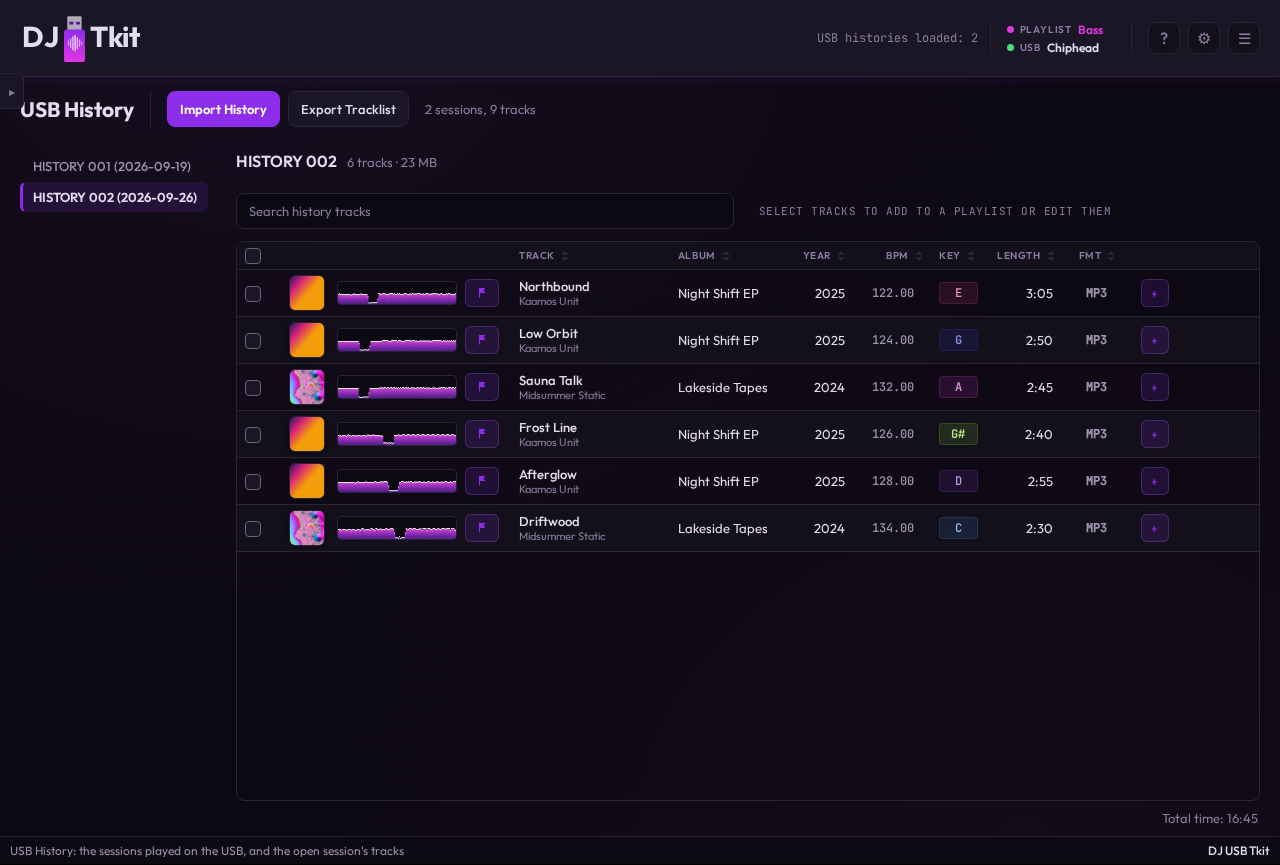
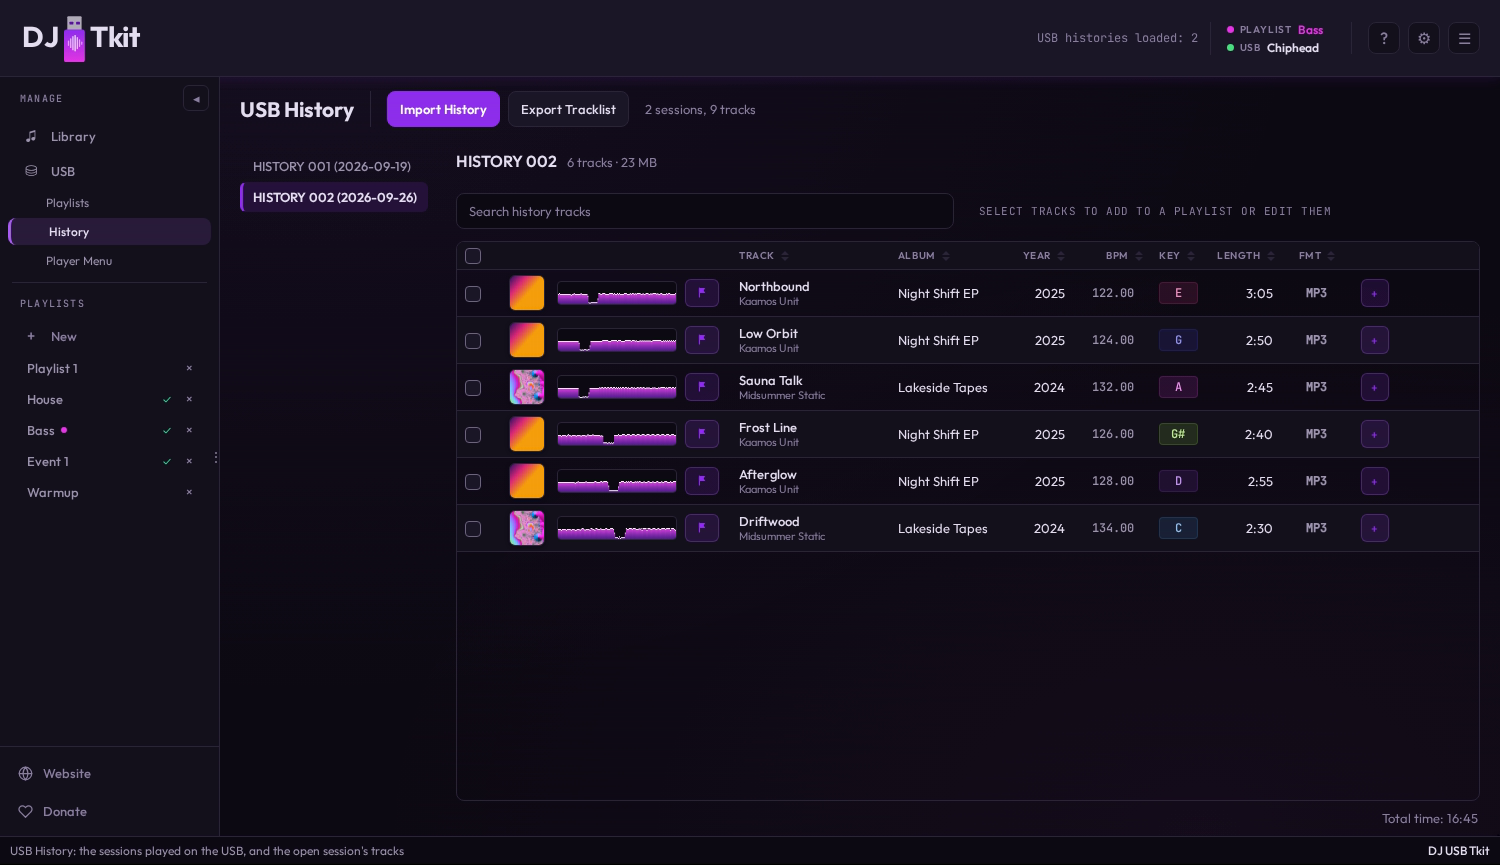
update doc assets

diff --git a/vanilla-ui/scripts/doc-media/page_init.js b/vanilla-ui/scripts/doc-media/page_init.js
@@ -99,6 +99,12 @@
     for (const cb of listeners.get(name) || []) cb({ event: name, payload });
   };
   const sleep = (ms) => new Promise((resolve) => setTimeout(resolve, ms));
+  // With `opts.audioFormats`, the status the backend gave once that shot's
+  // playlist existed: the diagnostics dump predates it.
+  const exportStatusList = () =>
+    opts.audioFormats
+      ? usb.audioFormats.exportStatus.data.playlistUsbExportStatus
+      : usb?.diagnostics?.data?.playlistUsbExportStatus;
   const exportedNow = new Set();
   // Playlists added to since: their "exported to USB" marks are cleared.
   const changedNow = new Set();
@@ -318,9 +324,12 @@
           case "get_usb_device_name":
             return ok({ name: "Chiphead" });
           case "refresh_playlist_export_status":
-            return ok({ playlistUsbExportStatus: usb?.diagnostics?.data?.playlistUsbExportStatus || [] });
+            return ok({ playlistUsbExportStatus: exportStatusList() || [] });
           case "run_usb_diagnostics":
             if (!usb) return ok({ overallStatus: "PASS", durationMs: 842, warnings: [], checks: [], playlistUsbExportStatus: [] });
+            if (opts.audioFormats) {
+              return ok({ ...usb.diagnostics.data, playlistUsbExportStatus: exportStatusList() });
+            }
             return opts.brokenUsb ? usb.brokenDiagnostics : usb.diagnostics;
           case "repair_usb_diagnostics":
             return usb.repairPreview;

diff --git a/backend/src/bin/dump_doc_gif_fixture.rs b/backend/src/bin/dump_doc_gif_fixture.rs
@@ -360,12 +360,18 @@ fn dump_audio_formats(
             json!({ "playlistId": created.playlist_id, "usbRoot": usb_root }),
         )),
     );
+    // Asked after the playlist exists: the diagnostics dump predates it.
+    let export_status = response(
+        "refresh_playlist_export_status",
+        svc.refresh_playlist_export_status(request("refresh_playlist_export_status", root)),
+    );
     json!({
         "allTicked": all_ticked,
         "unticked": unticked,
         "playlistId": created.playlist_id,
         "playlistTracks": tracks,
         "exportSpace": space,
+        "exportStatus": export_status,
     })
 }
 

diff --git a/CHANGELOG.md b/CHANGELOG.md
@@ -41,6 +41,9 @@
 
 - **Fix:** Diagnostics no longer warn "PDB header compatibility: value 4" on USBs exported with
   rekordbox, which writes that value itself. The next repair you run on the USB sets it to 5.
+- **Chore:** The docs' transcode, USB Playlists and USB History screenshots show the side menu open,
+  and the last two are wider so their track lists have no horizontal scrollbar. The transcode
+  screenshot's export button names the USB.
 
 ## 0.5.4
 
